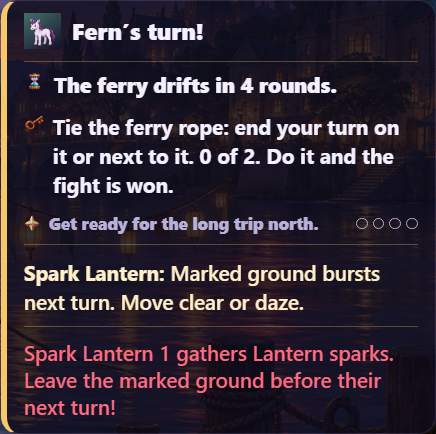
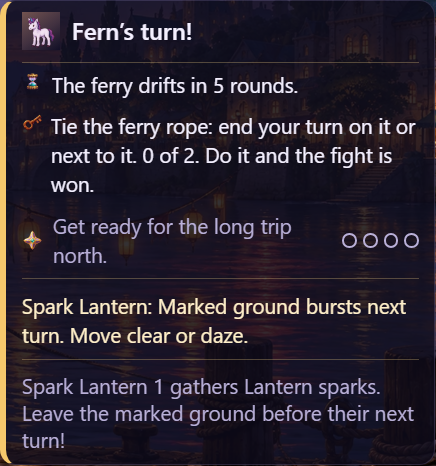
Simplify combat panel typography to two clear levels

Changed region(s): [[0.0, 0.0, 1.0, 1.0]]

diff --git a/packages/client/src/screens/FightLog.css b/packages/client/src/screens/FightLog.css
@@ -12,6 +12,9 @@
  */
 
 .fight-log {
+  font-size: .9em;
+  font-weight: 400;
+  line-height: 1.4;
   /* A column beside the board: FightLog reports its width, and the fight
      camera frames the board to its left (world/stage-inset.ts). */
   --fight-log-beside: 1;
@@ -263,7 +266,7 @@
   padding: .65em 0 0;
   border-block-start: 1px solid #d7bb7a55;
   color: #fff0ca;
-  font-size: .9em;
+  font-size: inherit;
   line-height: 1.4;
 }
 .fight-log__plan p { margin: 0; }
@@ -271,7 +274,7 @@
 .fight-log__lines {
   border-block-start: 1px solid #d7bb7a55;
   padding-block-start: .65em;
-  font-size: .9em;
+  font-size: inherit;
   line-height: 1.4;
 }
 :root .fight-log .rift-status {
@@ -280,7 +283,7 @@
   inline-size: 100%;
   align-items: stretch;
   gap: .6em;
-  font-size: .9em;
+  font-size: inherit;
 }
 .fight-log .rift-status > * { flex: none; }
 /* The goal's painted paper has a minimum trim larger than its text row. Remove
@@ -298,11 +301,11 @@
   background: none;
   box-shadow: none;
   color: var(--color-text-muted, #b7b0d8);
-  font-size: .8em;
+  font-size: inherit;
 }
 :root .fight-log .goal::before, :root .fight-log .goal::after { display: none; }
 :root .fight-log .goal :is(.goal__text, .goal__sentence, .goal__label) { color: inherit; }
-:root .fight-log .goal__text { font-size: inherit; line-height: 1.4; align-items: center; flex-wrap: wrap; }
+:root .fight-log .goal__text { font-size: inherit; font-weight: inherit; line-height: 1.4; align-items: center; flex-wrap: wrap; }
 .fight-log .goal__sentence { flex: 1 1 12em; min-inline-size: 0; white-space: normal; }
 .fight-log .goal__pips { flex: none; margin-inline-start: 0; }
 .fight-log .rift-status__clock {
@@ -314,6 +317,7 @@
   box-shadow: none;
   animation: none;
   font-size: inherit;
+  font-weight: inherit;
   line-height: 1.4;
   gap: .45em;
   align-items: flex-start;
@@ -327,6 +331,7 @@
   border-radius: 0;
   background: none;
   font-size: inherit;
+  font-weight: inherit;
   line-height: 1.4;
   align-items: flex-start;
 }
@@ -343,12 +348,25 @@
   background: none;
   box-shadow: none;
   padding: 0 0 .5em;
-  font-size: 1em;
+  font-size: 1.15em;
+  font-weight: 600;
   max-inline-size: 100%;
 }
 .fight-log:has(.rift-status) .fight-log__guard { display: none; }
 
+/* One headline and one body style. Names, numbers and supporting messages do
+   not create additional type levels inside the panel. */
+.fight-log :is(b, strong) { font-weight: inherit; }
+.fight-log :is(.fight-log__swing, .fight-log__who, .fight-log__die,
+  .fight-log__stat, .fight-log__vs, .fight-log__verdict, .fight-log__why,
+  .fight-log__guard, .fight-log__chip, .fight-log__matchup) {
+  font-size: inherit;
+  font-weight: inherit;
+}
+.fight-log .fight-log__lines { color: var(--color-text-muted, #b7b0d8); }
+.fight-log .fight-log__line > span:only-child { color: inherit; }
+
 /* Large text on a TV remains a side column, with room for full sentences. */
 @container world (min-width: 641px) and (max-height: 26em) {
-  .fight-log { inline-size: 40%; font-size: .9em; }
+  .fight-log { inline-size: 40%; font-size: .8em; }
 }

diff --git a/e2e/combat-quay.spec.ts b/e2e/combat-quay.spec.ts
@@ -70,7 +70,15 @@ test("the quay's committed burst survives refresh, can be interrupted, and frien
         const goal = panel.querySelector(".goal")!;
         const box = panel.getBoundingClientRect();
         const corner = document.querySelector(".kad-corner")!.getBoundingClientRect();
+        const type = (el: Element) => {
+          const css = getComputedStyle(el);
+          return { size: parseFloat(css.fontSize), weight: css.fontWeight };
+        };
+        const bodyType = type(panel);
+        const bodyText = [...panel.querySelectorAll(".rift-status__clock > span:last-child, .rift-status__lines li, .goal__text, .goal__sentence, .fight-log__plan p, .fight-log__plan b, .fight-log__line span")]
+          .filter(el => el.getBoundingClientRect().height > 0).map(type);
         return { rows, left: box.left, right: box.right, top: box.top, cornerBottom: corner.bottom,
+          bodyType, bodyText, headingType: type(panel.querySelector(".turn-banner")!),
           boardBeside: getComputedStyle(panel).getPropertyValue("--fight-log-beside").trim(), fits: panel.scrollHeight <= panel.clientHeight + 1,
           goalTrim: getComputedStyle(goal, "::before").display,
           frames: [".turn-banner", ".rift-status__clock", ".fight-log__plan"].map(selector => {
@@ -79,6 +87,10 @@ test("the quay's committed burst survives refresh, can be interrupted, and frien
           }) };
       });
       expect(layout.fits, JSON.stringify({ surface, layout })).toBe(true);
+      expect(layout.bodyText.length).toBeGreaterThan(4);
+      expect(layout.bodyText.every(type => type.size === layout.bodyType.size && type.weight === "400"), JSON.stringify(layout.bodyText)).toBe(true);
+      expect(layout.headingType.size).toBeGreaterThan(layout.bodyType.size);
+      expect(layout.headingType.weight).toBe("600");
       expect(layout.goalTrim).toBe("none");
       expect(layout.top).toBeGreaterThanOrEqual(layout.cornerBottom);
       expect(layout.boardBeside).toBe("1");

diff --git a/docs/briefs/combat-quay-benchmark.md b/docs/briefs/combat-quay-benchmark.md
@@ -33,6 +33,8 @@ The live browser test uses two phones and a TV, checks 320px/390px and largest t
 
 The right-hand panel is checked at 720p, 1080p, largest text and high contrast: no row overlaps, clipped results, nested message frames or overlap with the corner controls. The test also verifies that the board still reserves the column's width and that the chapter goal's parchment pseudo-element stays off.
 
+Typography uses two levels: a semibold turn heading and one regular-weight body size shared by the clock, objective, chapter goal, threat and result. Supporting information recedes through color rather than extra sizes or boldness. Browser checks verify the computed sizes and weights across all four TV surfaces; the complete cooperative encounter passes with this treatment.
+
 Family observation is still required: do children anticipate the burst, deliberately make room, notice a saved friend, choose different contributions, and want another turn? Automated completion is evidence that the loop works, not that its difficulty and pacing are right.
 
 ## Captured surfaces
